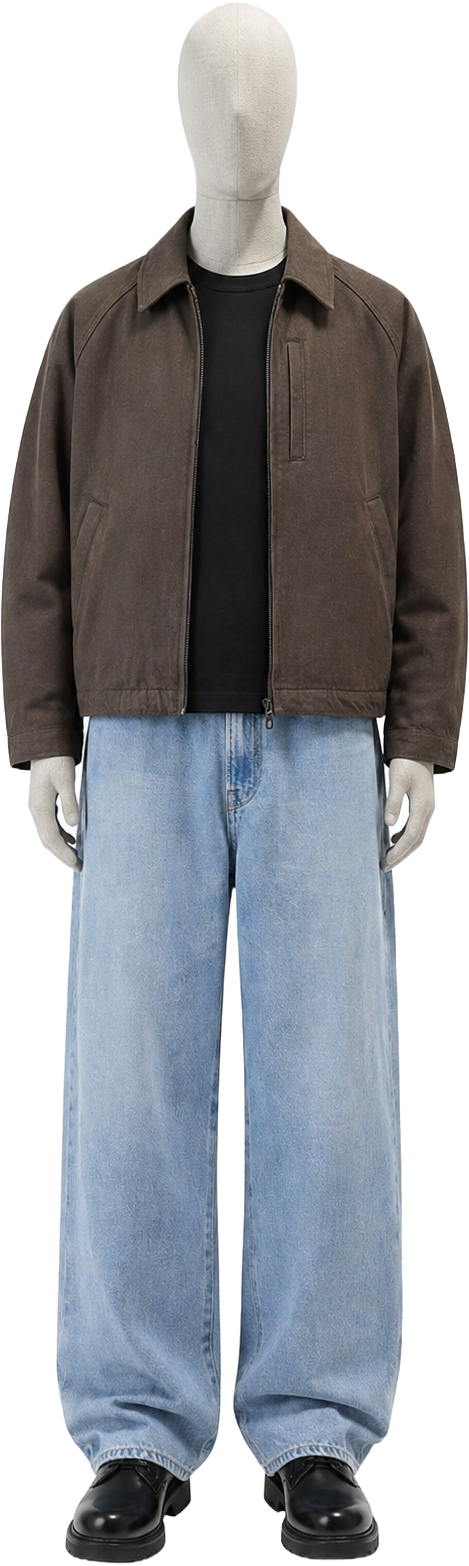
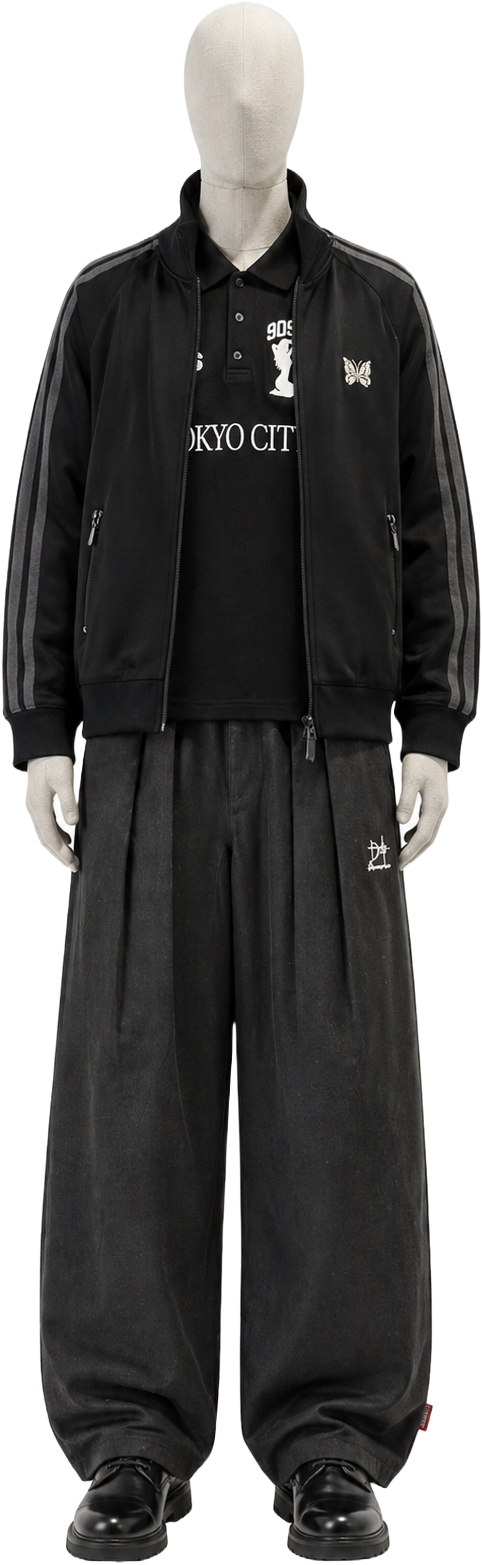
update: refine flow 2 home demo image fallback logic

diff --git a/src/pages/home/index.tsx b/src/pages/home/index.tsx
@@ -132,16 +132,6 @@ const Home = ({ profile }: InferGetServerSidePropsType<typeof getServerSideProps
       return
     }
 
-    // dislike 換圖：短暫 loading 後換圖，不打 API
-    if (options?.demoUrl) {
-      setIsLoading(true)
-      setTimeout(() => {
-        dispatch(updateDayImageUrl({ day, outfitImgUrl: options.demoUrl! }))
-        setIsLoading(false)
-      }, 1500)
-      return
-    }
-
     setIsLoading(true)
     try {
       const res = await getHomeRecommendation(day, targetOccasion)
@@ -163,14 +153,17 @@ const Home = ({ profile }: InferGetServerSidePropsType<typeof getServerSideProps
       )
       setIsLoading(false)
 
-      // outfit-social 只在使用者主動切換場合時才顯示，初始載入永遠給 outfit-today
-      const demoUrl = IS_FLOW2_DEMO
-        ? day === 'today'
-          ? options?.isOccasionSwitch && targetOccasion === 'socialGathering'
-            ? process.env.NEXT_PUBLIC_DEMO_OUTFIT_TODAY_SOCIAL_URL
-            : process.env.NEXT_PUBLIC_DEMO_OUTFIT_TODAY_URL
-          : process.env.NEXT_PUBLIC_DEMO_OUTFIT_TOMORROW_URL
-        : process.env.NEXT_PUBLIC_DEMO_OUTFIT_URL
+      // demo 圖選擇：options.demoUrl（dislike 指定圖）> Flow2 per-day/occasion > Flow1 fallback
+      // getHomeRecommendation 照常打，reasoning 正常更新，只跳過 generateOutfit
+      const demoUrl =
+        options?.demoUrl ??
+        (IS_FLOW2_DEMO
+          ? day === 'today'
+            ? options?.isOccasionSwitch && targetOccasion === 'socialGathering'
+              ? process.env.NEXT_PUBLIC_DEMO_OUTFIT_TODAY_SOCIAL_URL
+              : process.env.NEXT_PUBLIC_DEMO_OUTFIT_TODAY_URL
+            : process.env.NEXT_PUBLIC_DEMO_OUTFIT_TOMORROW_URL
+          : process.env.NEXT_PUBLIC_DEMO_OUTFIT_URL)
 
       if (demoUrl) {
         dispatch(updateDayImageUrl({ day, outfitImgUrl: demoUrl }))
